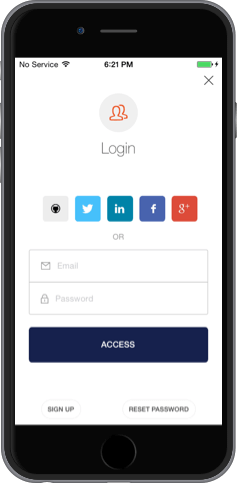
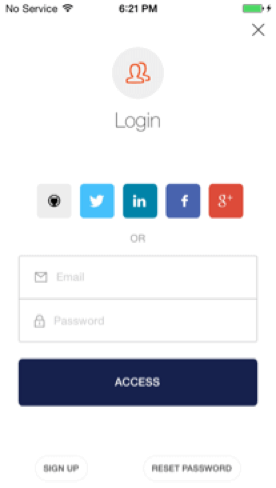
Lock iSO - small edits to new text, applied new mobile style to screenshots, resized existing image to fit.

diff --git a/articles/libraries/lock-ios/index.md b/articles/libraries/lock-ios/index.md
@@ -15,8 +15,8 @@ Auth0 Lock makes it easy to integrate SSO into your app. Lock's many benefits in
 * Finding the right icons for popular social providers.
 * Solving the home realm discovery challenge with enterprise users (i.e.: asking the enterprise user the email, and redirecting to the right enterprise identity provider).
 * Implementing a standard sign-in protocol (OpenID Connect / OAuth2 Login)
-
-  ![Lock iOS](/media/articles/libraries/lock-ios/lock-ios-animated.gif)
+  
+<div class="phone-mockup"><img src="/media/articles/libraries/lock-ios/lock-ios-animated.gif" alt="Lock iOS animation"/></div>
 
 ## Key features
 
@@ -165,7 +165,7 @@ self.presentViewController(controller, animated: true, completion: nil)
 
 You will see the Lock native login screen:
 
-![Lock-iOS](/media/articles/libraries/lock-ios/lock-ios.png)
+<div class="phone-mockup"><img src="/media/articles/libraries/lock-ios/lock-ios.png" alt="Lock-iOS"/></div>
 
 **NOTE**: By default, all social authentication will be done using Safari. If you want native integration, see: [Lock iOS: Native Social Authentication](/libraries/lock-ios/native-social-authentication).
 
@@ -337,15 +337,14 @@ If you want to show a disclaimer for your app, you will need to set `signUpDiscl
 
 ### Logout
 
-If desired, you have the ability to let the user log out. For this you need to call `clearSessions` for `A0Lock`. 
-This method removes all stored sessions of any IdP in your application.
+To log out a user, call `clearSessions` for `A0Lock`. This method removes all stored sessions of any IdP in your application.
 
 #### Important notes:
 
-* If the user is logged in using Safari, those sessions will not be cleared.
-* If you store the credentials in the keychain you need to clear them.
+* If the user has logged in using Safari, their sessions will not be cleared.
+* If you stored the credentials in the keychain, you need to clear them there as well.
 
-#### Objective-C example:
+#### Objective-C
 
 ```objc
 A0Lock *lock = [A0Lock sharedLock];
@@ -355,7 +354,7 @@ A0SimpleKeychain *keychain = [A0SimpleKeychain keychainWithService:<Your_Keychai
 //redirect the user to Login Page
 ```
 
-#### Swift example:
+#### Swift
 
 ```swift
 A0Lock.sharedLock().clearSessions()
